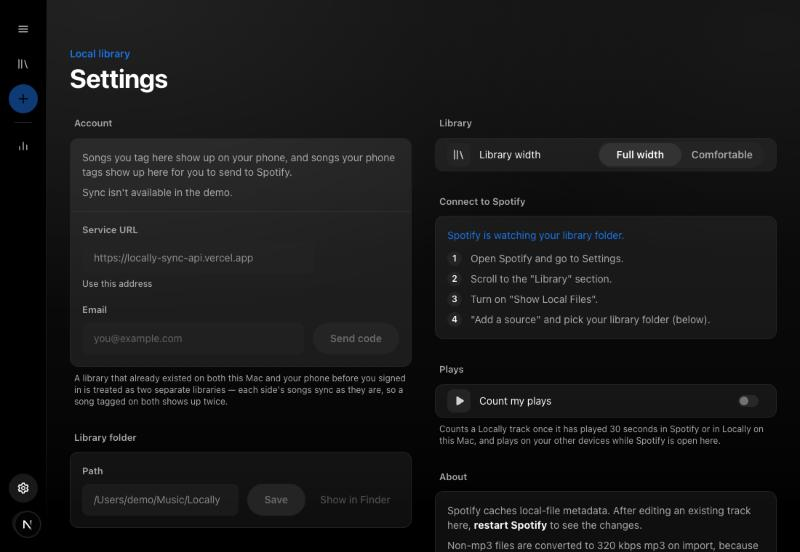
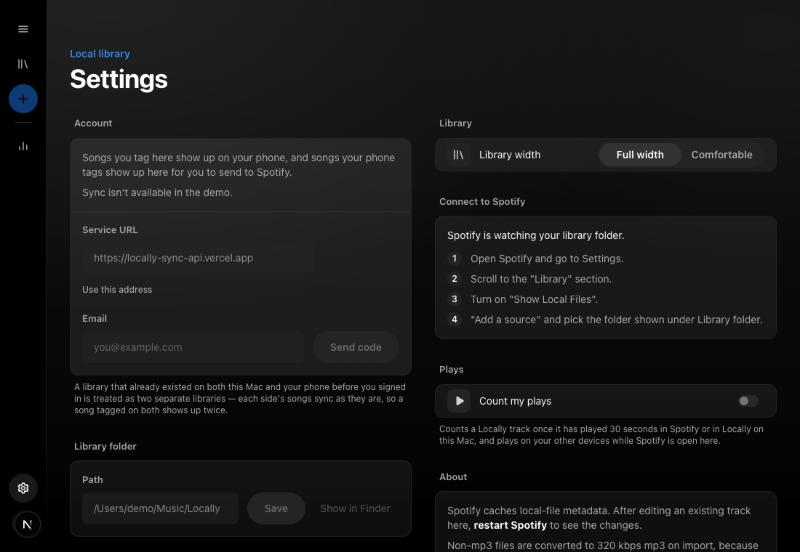
Mac Settings: Codex round 1, contrast on the backdrop, a 44 target, step wording (#416)

diff --git a/apps/web/src/components/SettingsView.tsx b/apps/web/src/components/SettingsView.tsx
@@ -66,7 +66,7 @@ const STEPS = [
   'Open Spotify and go to Settings.',
   'Scroll to the "Library" section.',
   'Turn on "Show Local Files".',
-  '"Add a source" and pick your library folder (below).',
+  '"Add a source" and pick the folder shown under Library folder.',
 ];
 
 function formatQuota(bytes: number): string {
@@ -559,7 +559,7 @@ export default function SettingsView({ onToast, syncStatus, onSyncStatusChange, 
     <div className={`flex flex-col gap-8 pb-16 ${libraryWidthClass(libraryWidth)}`}>
       <AmbientBackdrop palette={null} />
       <div>
-        <p className="text-sm font-semibold text-accent">
+        <p className="text-sm font-semibold text-accent-hover">
           Local library
         </p>
         <h1 className="mt-1 text-4xl font-bold tracking-[-0.02em] text-text">Settings</h1>
@@ -596,7 +596,7 @@ export default function SettingsView({ onToast, syncStatus, onSyncStatusChange, 
               <button
                 type="button"
                 onClick={handleBaseUrlBlur}
-                className="mt-1 text-xs font-medium text-text-muted underline-offset-2 hover:text-text hover:underline"
+                className="-mx-1 -mb-2 inline-flex min-h-11 items-center rounded-md px-1 text-xs font-medium text-text-muted underline-offset-2 outline-none hover:text-text hover:underline focus-visible:ring-2 focus-visible:ring-accent"
               >
                 Use this address
               </button>
@@ -813,7 +813,7 @@ export default function SettingsView({ onToast, syncStatus, onSyncStatusChange, 
       <SettingsSection title="Connect to Spotify">
         <SettingsBlock className="flex flex-col gap-3">
           {spotifyWatching !== null && (
-            <p className={`text-sm ${spotifyWatching ? "text-accent" : "text-text-muted"}`}>
+            <p className={`text-sm ${spotifyWatching ? "text-text" : "text-text-muted"}`}>
               {spotifyWatching
                 ? "Spotify is watching your library folder."
                 : "Spotify isn't watching your library folder yet."}

diff --git a/apps/web/src/components/LibraryMoveControl.tsx b/apps/web/src/components/LibraryMoveControl.tsx
@@ -82,7 +82,7 @@ export default function LibraryMoveControl({ onToast, onMoved }: LibraryMoveCont
       )}
       {preview?.problem && <p className="text-sm text-danger">{preview.problem}</p>}
       {preview?.needsMove && !preview.problem && !preview.movable && preview.reason && (
-        <p className="text-xs text-text-dim">{preview.reason}</p>
+        <p className="text-xs text-text-muted">{preview.reason}</p>
       )}
       {preview?.needsMove && preview.movable && !open && (
         <div>

diff --git a/docs/design.md b/docs/design.md
@@ -784,7 +784,7 @@ to 2.8:1 on Settings. The Collections player shows "Your music" with the collect
   confirm." (Move library / Cancel). After a move: "In Spotify, remove the old folder from Local Files sources."
   with the old path and a Copy path button. Hidden in the demo.
 - **Where Locally writes (iPhone, #335)**: everything the iPhone writes into Spotify's folder goes into one subfolder named by `Brand.folderName` ("Locally"); Settings' Spotify folder group says so, and a one-time move on launch brings older files in with a one-time line "Locally moved N songs into its own Locally folder in Spotify."
-- **Settings groups (Mac, #416, 31 Oct 2026; C20 and C26)**: the iPhone Settings' structure on the neutral studio backdrop (`AmbientBackdrop` with no palette, behind the page; the pane is `relative isolate`). A **group** is a title (13 semibold `text-muted`, sentence case, 6 inset, 10 above its card), one card, and an optional footnote under it (12 `text-muted`, 6 inset; never `text-dim`, which is under 4.5:1). The **card** is quiet by rule 5: `rounded-xl`, `bg-white/[0.06]`, a 1 px `border-white/[0.08]` hairline, no blur, tint, glow or gradient edge; the account card is `bg-white/[0.08]` with the same hairline and nothing else differs. A **row** is at least 44 tall (`min-h-11`, `px-4`): a 32 tile (`rounded-lg`, `bg-elevated`, the drawn glyph at 18 in `text-soft`; never tinted, a state like "Not connected on this Mac" is said in the row's text), the title (14 `text`), then a value (14 `text-muted`, right-aligned) or a control; a 1 px `bg-white/[0.06]` divider runs from the title's left edge to the card's right edge. What isn't a row (the path field, the Spotify folders list, the sign-in form, the Connect to Spotify steps) sits in the card at 16 with its own controls and a full-width divider. Order: Account (`id="account"`, the sidebar links to it: the sync account, or the sign-in form), Library folder, Your Spotify folders, Sync (signed in: storage, last synced, Sync now, Sign out, Delete sync account), Shared by you, Library (width), Connect to Spotify, Spotify (the connection and Count plays when this Mac is off), Plays, About. Built in `SettingsGroup.tsx` (`SettingsSection`, `SettingsBlock`, `SettingsRow`); in the demo a card that holds controls is a disabled `fieldset`.
+- **Settings groups (Mac, #416, 31 Oct 2026; C20 and C26)**: the iPhone Settings' structure on the neutral studio backdrop (`AmbientBackdrop` with no palette, behind the page; the pane is `relative isolate`). A **group** is a title (13 semibold `text-muted`, sentence case, 6 inset, 10 above its card), one card, and an optional footnote under it (12 `text-muted`, 6 inset; never `text-dim`, which is under 4.5:1). The **card** is quiet by rule 5: `rounded-xl`, `bg-white/[0.06]`, a 1 px `border-white/[0.08]` hairline, no blur, tint, glow or gradient edge; the account card is `bg-white/[0.08]` with the same hairline and nothing else differs. A **row** is at least 44 tall (`min-h-11`, `px-4`): a 32 tile (`rounded-lg`, `bg-elevated`, the drawn glyph at 18 in `text-soft`; never tinted, a state like "Not connected on this Mac" is said in the row's text), the title (14 `text`), then a value (14 `text-muted`, right-aligned) or a control; a 1 px `bg-white/[0.06]` divider runs from the title's left edge to the card's right edge. What isn't a row (the path field, the Spotify folders list, the sign-in form, the Connect to Spotify steps) sits in the card at 16 with its own controls and a full-width divider. Order: Account (`id="account"`, the sidebar links to it: the sync account, or the sign-in form), Library folder, Your Spotify folders, Sync (signed in: storage, last synced, Sync now, Sign out, Delete sync account), Shared by you, Library (width), Connect to Spotify, Spotify (the connection and Count plays when this Mac is off), Plays, About. Built in `SettingsGroup.tsx` (`SettingsSection`, `SettingsBlock`, `SettingsRow`); in the demo a card that holds controls is a disabled `fieldset`. Over the studio backdrop (about #1b1b1b) `accent` text is 4.3:1, so the "Local library" eyebrow is `accent-hover` (5.2:1) and the "Spotify is watching" line is `text`; "Use this address" is a text link with a 44 tall hit area.
 - **Your Spotify folders (desktop, #245 step D, #249; designed 16 Oct 2026)**: Locally adds the
   releases Spotify already plays from the owner's own folders, details only, and never touches the
   files (plan `docs/plans/245-adopt-local-files.md`). The user-facing verb is **add**, never
